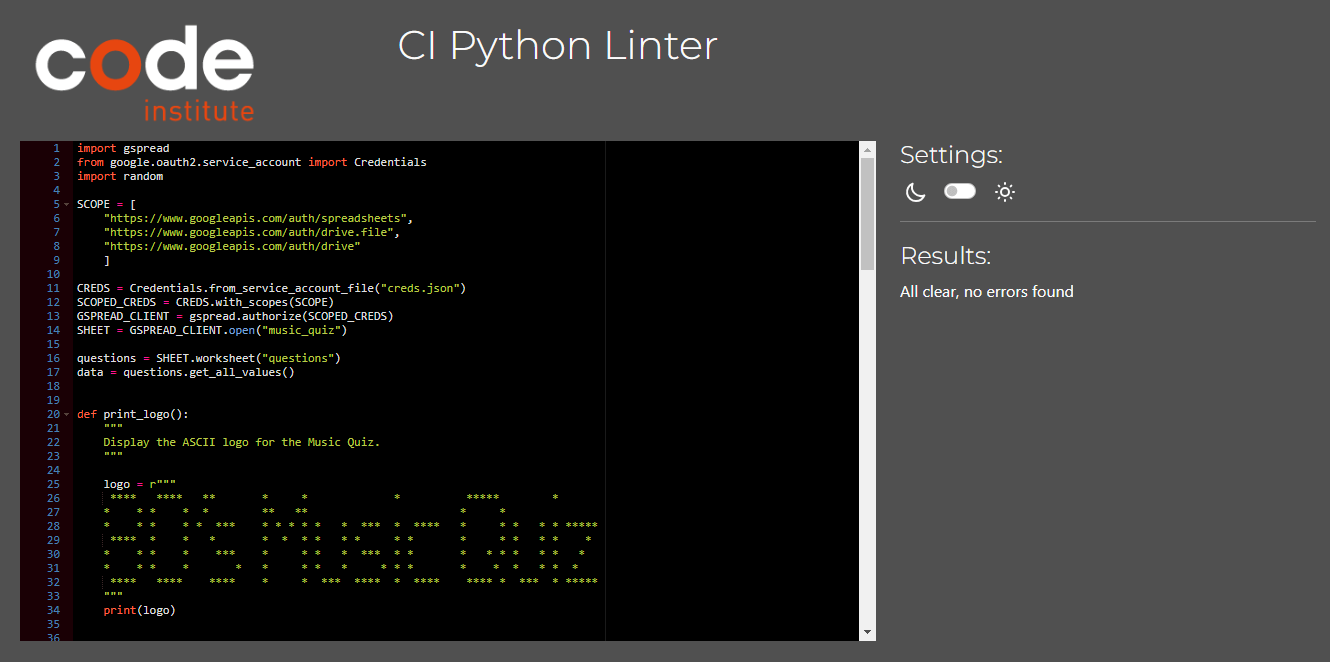
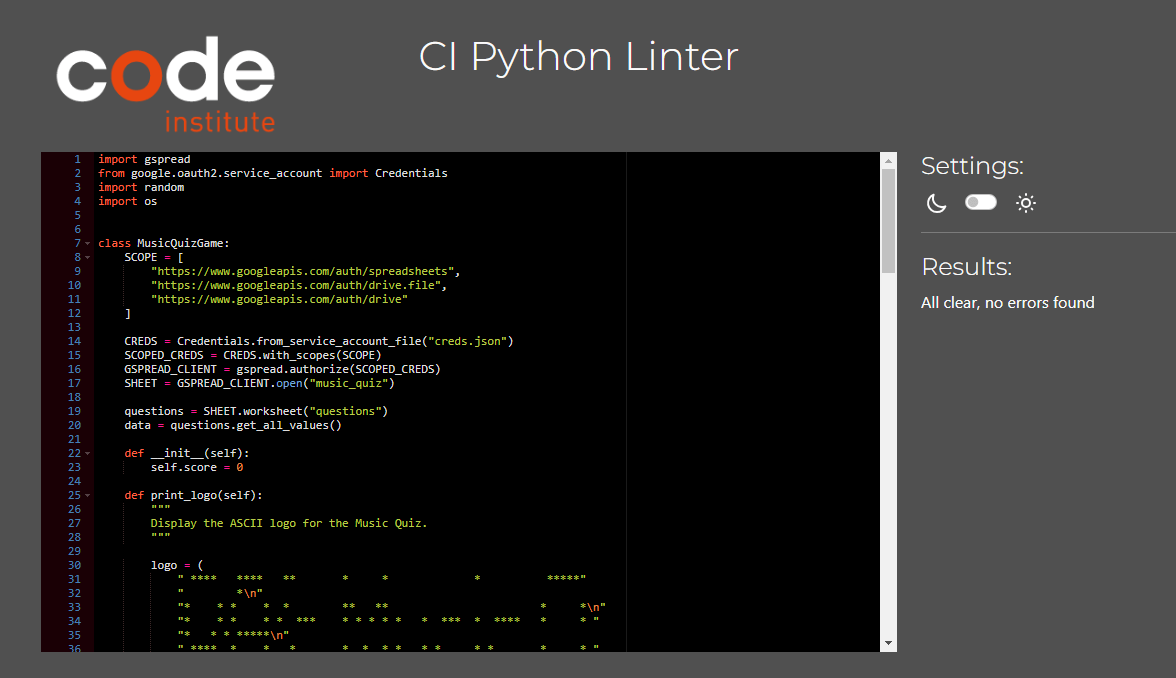
Docs: Add data model section to readme

diff --git a/README.md b/README.md
@@ -77,6 +77,12 @@ The questions, possible answers and correct answers are stored in a Google Sheet
 
 Credentials were generated and provided to allow access from the game to Google Sheets. These were added to the creds.json. The creds.json file was added to the .gitignore file to ensure the credentials were not pushed to the Github repository. The credentials were added to the Config Vars on Heroku to ensure they can be accessed when running the game.
 
+## Data model
+
+To use principles of Object-Oriented Programming, a MusicQuizGame class was created. This class is responsible for controlling the flow of the game. It contains methods for the general running of the game, such as displaying the ASCII logo, displaying rules, choosing questions, taking user guesses, displaying feedback on user guesses, updating the score and restarting the game.
+
+By using a class, the game’s behaviour and data are encapsulated within instances of the class. Each player can have their game instance, allowing them to play independently without interfering with each other’s progress. This approach provides better organization, separation of concerns, and potential for code reusability and extensibility.
+
 ## Testing
 
 ### PEP8 Testing
@@ -101,6 +107,7 @@ The game was tested thoroughly to ensure the following features work as intended
 - The possible answers are randomised before they are displayed.
 - The game ends after 10 questions and displays the final score to the user.
 - The terminal clears if the user chooses to play again.
+- The game was run on two devices simultaneously to ensure that multiple people could play the game at the same time.
 
 All of the above tests were completed in my local terminal and also in the Heroku terminal.
 
